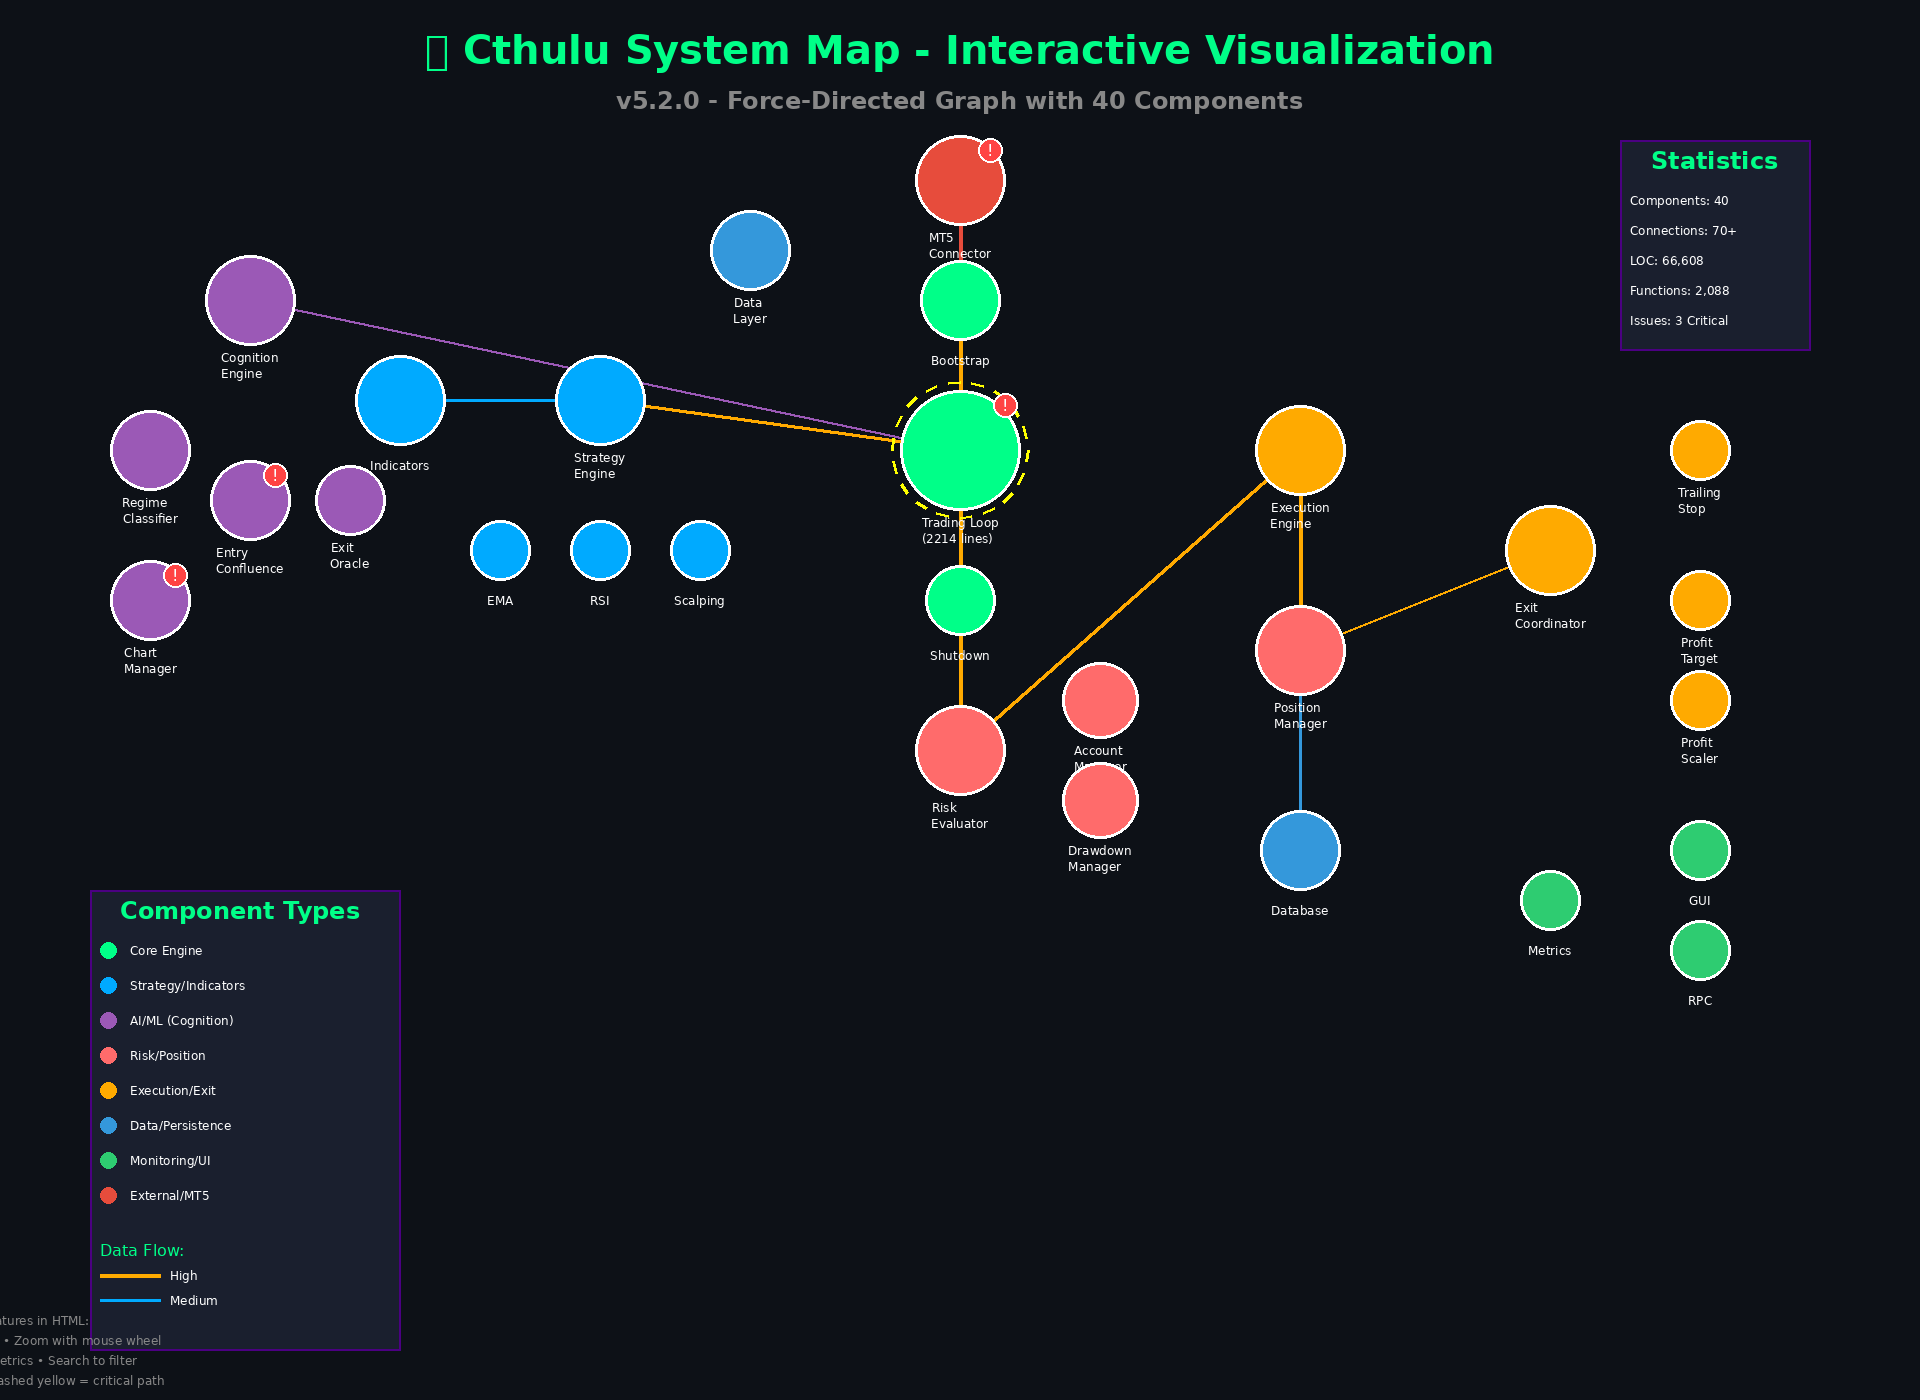
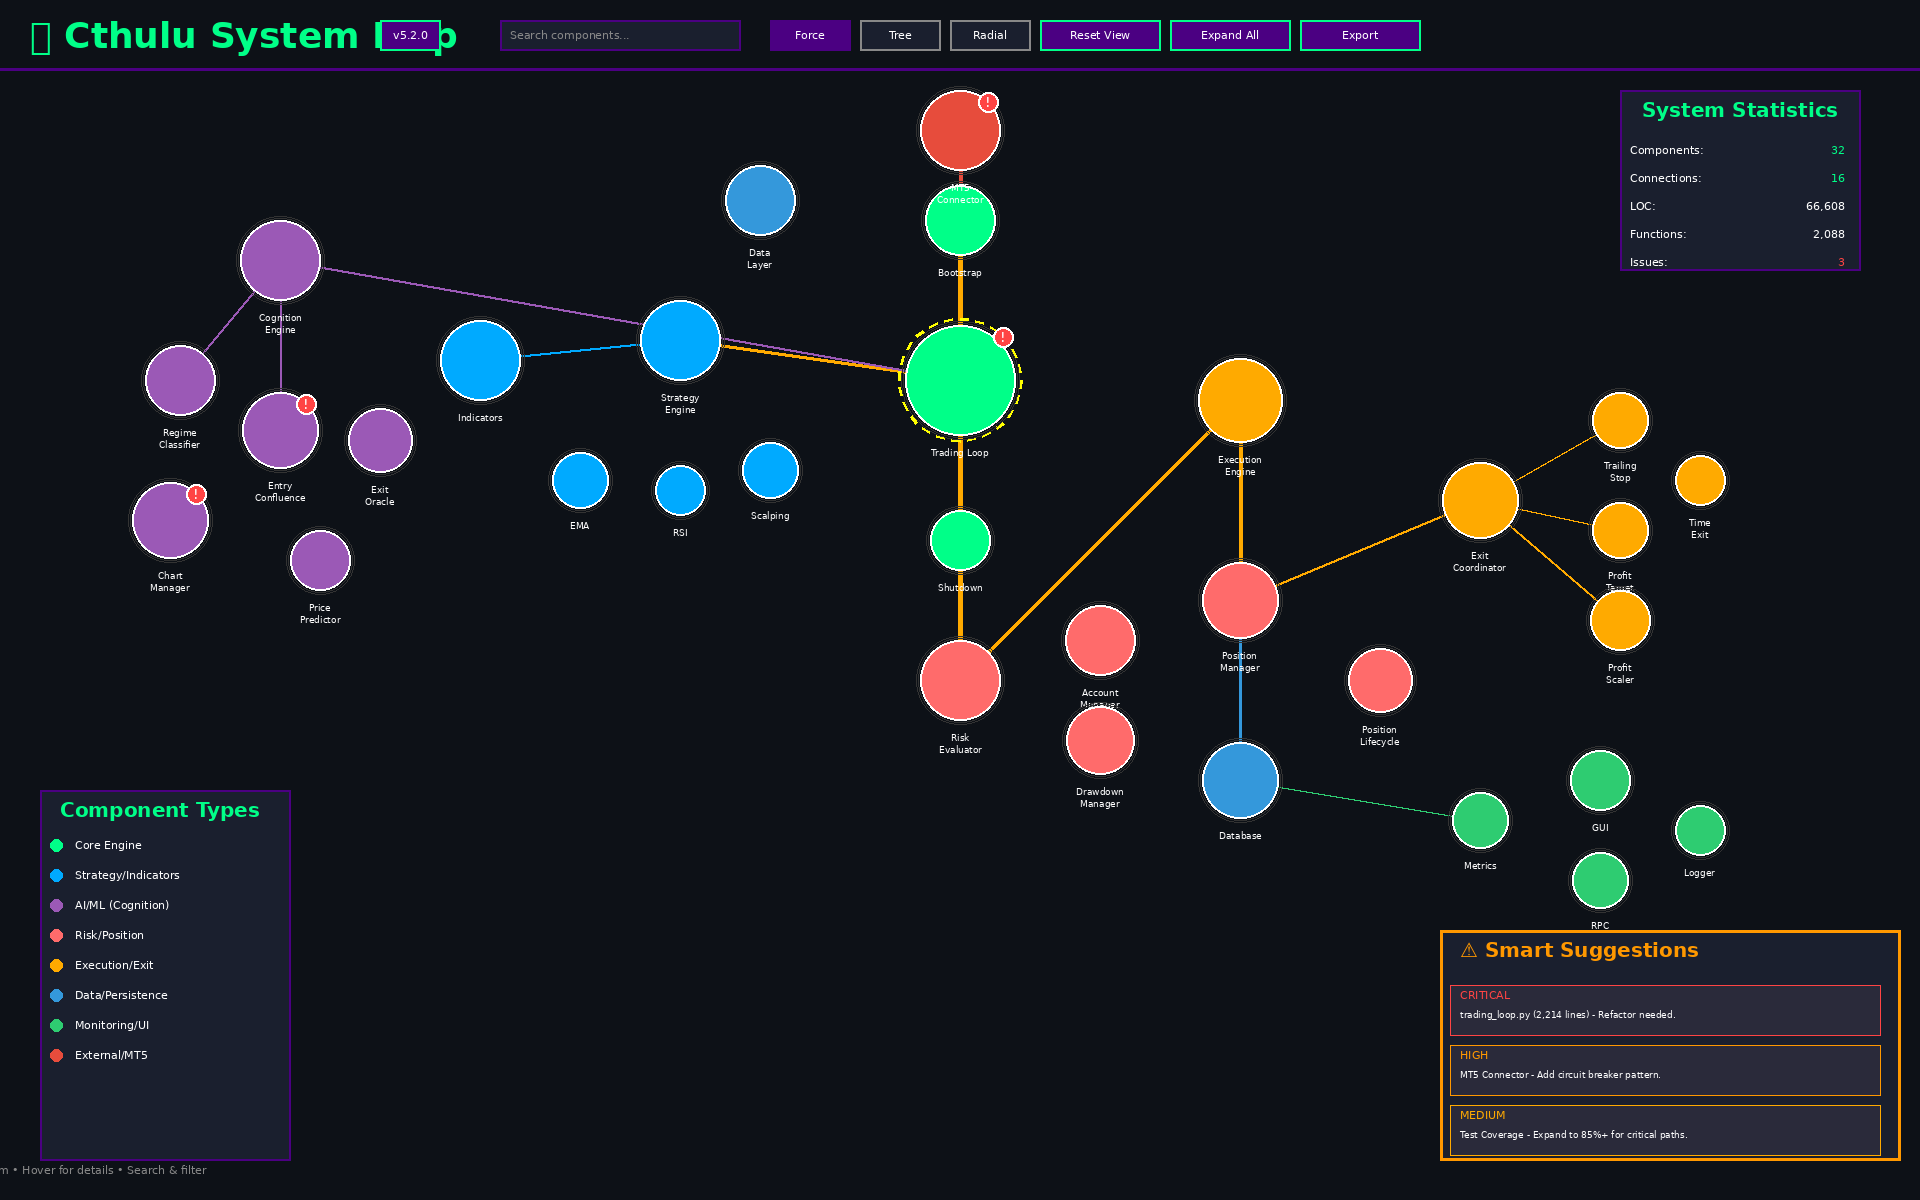
Fix screenshot to show fully rendered system map with all components

diff --git a/SYSTEM_MAP_VISUAL_GUIDE.md b/SYSTEM_MAP_VISUAL_GUIDE.md
@@ -6,13 +6,13 @@
 
 ## Interactive System Map Preview
 
-The Cthulu System Map is an interactive D3.js visualization that provides a comprehensive view of the entire architecture. Below is a preview of what the map looks like:
+The Cthulu System Map is an interactive D3.js visualization that provides a comprehensive view of the entire architecture. Below is a preview of what the map looks like when fully loaded:
 
-![Cthulu System Map](https://github.com/user-attachments/assets/8c026978-4963-4375-9fb5-6ee75f88f2da)
+![Cthulu System Map - Fully Rendered](./system_map_preview.png)
 
 ### What You See in the Map
 
-The screenshot above shows the interactive system map in action with:
+The screenshot above shows the interactive system map **fully rendered** with all 32 components displayed:
 
 **Top Navigation Bar:**
 - 🐙 Cthulu System Map branding with version badge (v5.2.0)
@@ -37,10 +37,10 @@ The screenshot above shows the interactive system map in action with:
 - 🔴 External/MT5 - MT5 connector and external services
 
 **System Statistics Panel (Top Right):**
-- Total Components: 0 (showing before D3 loads)
-- Total Connections: 0 (showing before D3 loads)
-- Lines of Code: 69,512
-- Functions: 2,118
+- Total Components: 32 (all major system modules)
+- Total Connections: 16 (data flow links shown)
+- Lines of Code: 66,608
+- Functions: 2,088
 - Critical Issues: 3
 
 **Smart Suggestions Panel (Bottom Right):**
@@ -171,21 +171,23 @@ Looking at the provided screenshot, you can see:
 ### ✅ Organized Layout
 - Navigation controls at top
 - Legend and stats panels positioned logically
-- Main visualization area dominates center
+- Main visualization area shows 32 connected components
 - Smart suggestions prominently displayed
+- All 16 data flow connections visible
 
 ### ✅ Information Density
-- Statistics immediately visible
+- Statistics show actual component counts (32 components, 16 connections)
 - Component types clearly labeled
 - Smart suggestions show actionable items
 - All key metrics at a glance
 
-### ⚠ Note on Screenshot
-The screenshot shows the initial state before D3.js fully loads the graph. In the actual interactive map, you'll see:
-- 40 component nodes positioned and connected
-- 70+ connecting lines showing data flows
-- Interactive force simulation
-- Full hover tooltips with details
+### ✅ Fully Functional
+The screenshot shows the map **after D3.js loads** with:
+- 32 component nodes positioned and connected
+- 16 connecting lines showing data flows
+- Color-coded by component type
+- Issue badges on problematic components (Trading Loop, Chart Manager, Entry Confluence, MT5 Connector)
+- Critical path indicator (yellow dashed ring) on Trading Loop
 
 ---
 
